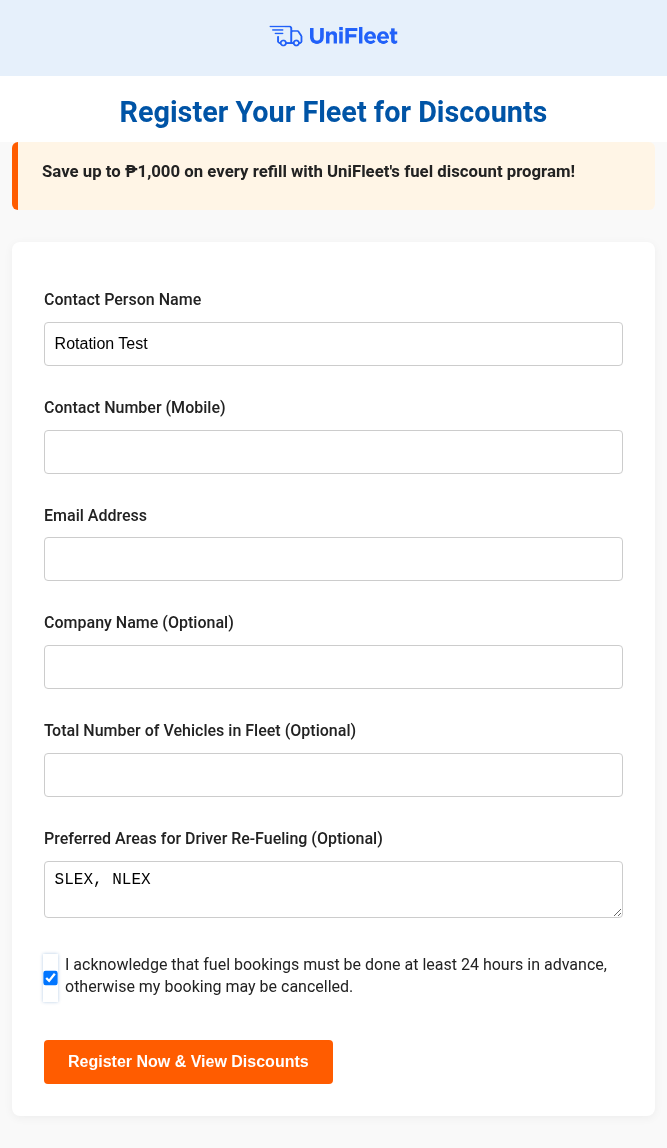
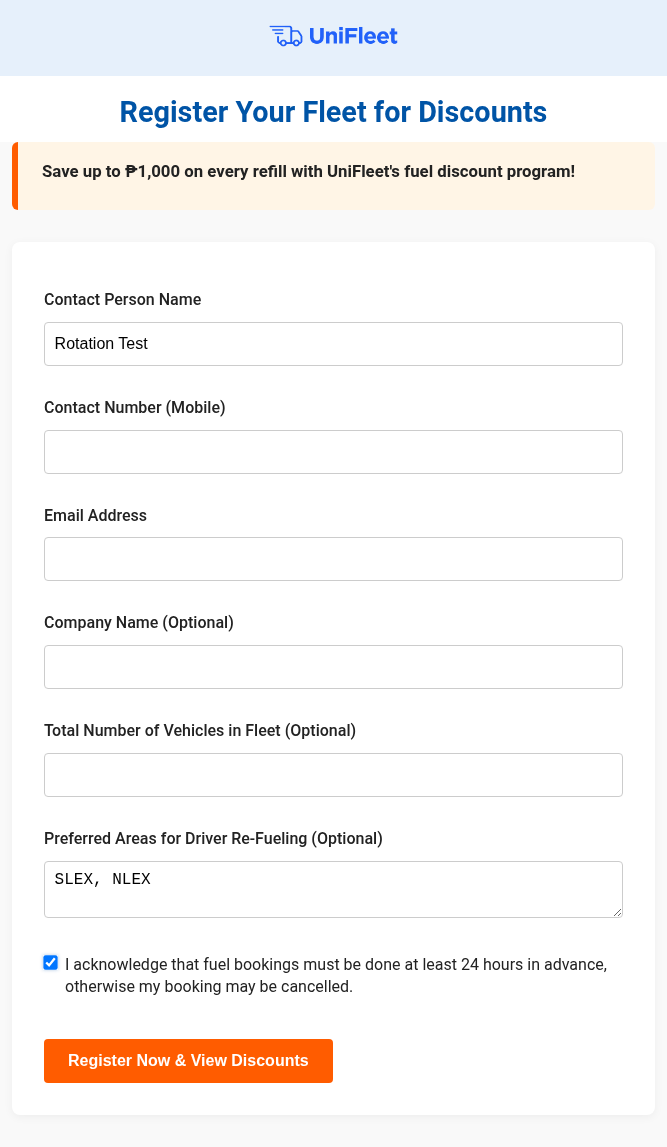
fix(register): address code-review findings on ARCH-register-mobile-friendly (all 5)
Checkbox tap-target rule stretched the acknowledgement checkbox into a
14x48px rectangle (no checkbox/radio exclusion on the generic min-height
selector) — excluded checkbox/radio, verified back to square 14x14,
label-click coverage still satisfies WCAG 2.5.5/2.5.8's Equivalent-target
exception. Also: persisted the make test-db run (347 passed) that was
executed but not evidenced, deduped the portrait/landscape tap-target
values via shared CSS custom properties, fixed a width/height comment
mismatch, and documented the WCAG rationale in code.

Claude-Session: https://claude.ai/code/session_01Btq9aF1etF7pQSWHgWkJon

diff --git a/static/styles.css b/static/styles.css
@@ -76,6 +76,14 @@ button:hover {
   display: none;
 }
 
+/* Shared tap-target values, referenced by both the portrait (.mobile-page)
+   and register-only landscape (.register-page) blocks below so they can't
+   drift out of sync with each other. */
+:root {
+  --tap-target-min: 44px;
+  --tap-target-font: 16px;
+}
+
 /* Mobile responsiveness (Brief-6, ARCH-brief-6). Scoped under .mobile-page
    so it never reaches register/admin templates that share the same base
    class names (.page-title, .centered-content, .section). */
@@ -90,16 +98,21 @@ button:hover {
     padding: 1.25rem 1rem;
   }
 
-  /* Tap targets: buttons, inputs, selects, textareas at least 44x44px */
-  .mobile-page input,
+  /* Tap targets: buttons, inputs, selects, textareas at least 44x44px.
+     Checkbox/radio excluded: native controls ignore CSS padding/min-height
+     for their own hit-box in Chromium, and forcing min-height here just
+     stretches them into a thin rectangle instead of a square (see the
+     .inline-checkbox rule below for how checkboxes get their tap target
+     instead — via the adjacent <label>, not their own box). */
+  .mobile-page input:not([type="checkbox"]):not([type="radio"]),
   .mobile-page select,
   .mobile-page textarea,
   .mobile-page button,
   .mobile-page .full-width-input,
   .mobile-page .btn {
-    min-height: 44px;
+    min-height: var(--tap-target-min);
     box-sizing: border-box;
-    font-size: 16px; /* prevents iOS auto-zoom-on-focus */
+    font-size: var(--tap-target-font); /* prevents iOS auto-zoom-on-focus */
   }
 
   .mobile-page .btn,
@@ -107,16 +120,22 @@ button:hover {
     display: inline-flex;
     align-items: center;
     justify-content: center;
-    min-height: 44px;
+    min-height: var(--tap-target-min);
   }
 
+  /* Checkbox: intentionally NOT resized (see exclusion above). The
+     adjacent <label for="acknowledge"> already toggles it and covers a
+     much larger area, satisfying WCAG 2.5.5/2.5.8's "Equivalent" target
+     exception (a same-action control that isn't small) — resizing the
+     checkbox itself isn't required and would visually distort it. */
+
   .mobile-page button {
-    min-width: 44px;
+    min-width: var(--tap-target-min);
   }
 
   /* <details>/<summary> toggles (map, fuel tables) are tap targets too */
   .mobile-page summary {
-    min-height: 44px;
+    min-height: var(--tap-target-min);
     display: flex;
     align-items: center;
   }
@@ -193,10 +212,13 @@ button:hover {
 }
 
 /* Register-only, landscape supplement: the max-width:480px block above
-   covers portrait phones but misses landscape (common landscape widths run
-   667-926px, past that breakpoint). Scoped to .register-page (not
-   .mobile-page) so book.html/booking_success.html, which rely solely on
-   the width breakpoint, are unaffected. */
+   covers portrait phones but misses landscape (common landscape phones
+   report a viewport *height* of roughly 320-430px, past the max-height
+   condition below would need to be — this block's own max-height:480px
+   catches that range). Scoped to .register-page (not .mobile-page) so
+   book.html/booking_success.html, which rely solely on the portrait
+   width breakpoint above, are unaffected. Shares --tap-target-min/-font
+   with the portrait block above so the two can't drift out of sync. */
 @media (max-height: 480px) and (orientation: landscape) {
   .register-page .centered-content {
     max-width: 100%;
@@ -204,15 +226,16 @@ button:hover {
     box-sizing: border-box;
   }
 
-  .register-page input,
+  /* Checkbox/radio excluded — same reason as the portrait block above. */
+  .register-page input:not([type="checkbox"]):not([type="radio"]),
   .register-page select,
   .register-page textarea,
   .register-page button,
   .register-page .btn,
   .register-page .button {
-    min-height: 44px;
+    min-height: var(--tap-target-min);
     box-sizing: border-box;
-    font-size: 16px; /* prevents iOS auto-zoom-on-focus */
+    font-size: var(--tap-target-font); /* prevents iOS auto-zoom-on-focus */
   }
 
   .register-page .btn,
@@ -223,6 +246,6 @@ button:hover {
   }
 
   .register-page button {
-    min-width: 44px;
+    min-width: var(--tap-target-min);
   }
 }

diff --git a/templates/register.html b/templates/register.html
@@ -63,6 +63,10 @@
       margin: 1rem 0 1.5rem;
     }
 
+    /* Stays this size on mobile too (excluded from styles.css's tap-target
+       min-height rules) — the adjacent label below already toggles this
+       checkbox and covers a much larger area, satisfying WCAG 2.5.5/2.5.8's
+       "Equivalent" target-size exception without visually distorting it. */
     .inline-checkbox input[type="checkbox"] {
       width: auto;            /* don't inherit the 100% form-input width */
       flex: 0 0 auto;

diff --git a/specs/reviews/CODE-REVIEW-PIPELINE-register-mobile-friendly.md b/specs/reviews/CODE-REVIEW-PIPELINE-register-mobile-friendly.md
@@ -1,0 +1,141 @@
+# Review Report
+
+## Metadata
+
+| Field | Value |
+|-------|-------|
+| **Review Mode** | Pipeline: ARCH-register-mobile-friendly |
+| **Target** | specs/architecture/ARCH-register-mobile-friendly.md |
+| **Date** | 2026-08-04 |
+| **Tech Stack** | Flask (Python 3.11), Jinja2 templates, plain CSS, no build pipeline / no JS framework |
+| **Checks Run** | task-completion, code-quality, accessibility, migration |
+| **Checks Skipped** | test-coverage (ui-mode task, verified manually per task spec), security/performance/error-handling/database-patterns/async-patterns/runtime-behavior/express-patterns/react-patterns/typescript-strictness (no backend logic, DB, JS/TS, or React changes in diff), documentation/config-dependencies (no README/API surface, no new deps or env vars) |
+| **Files Changed** | 3 (`templates/register.html`, `templates/register_success.html`, `static/styles.css`) |
+| **Lines Changed** | +44 / -4 |
+
+## Review Process
+
+- [x] Preflight checks passed
+- [x] Diff gathered (3 files, 48 lines, commit `35e953f`)
+- [x] Tech stack detected: Flask / Jinja2 / plain CSS
+- [x] Context read (CLAUDE.md, AGENTS.md, linked REQ-register-mobile-friendly.md)
+- [x] Triage proposed and developer confirmed
+- [x] 4 checks dispatched: task-completion, code-quality, accessibility, migration
+- [x] Results collected and deduplicated
+- [x] Report compiled
+- [x] Verdict determined
+- [x] Report saved to specs/reviews/
+
+## Verdict: ✅ PASS (post-fix)
+
+**Update 2026-08-04:** All 5 findings addressed. The checkbox tap-target selector now excludes `input[type="checkbox"]`/`input[type="radio"]` in both media blocks, fixing the stretched 14×48px rectangle — re-verified via Playwright at 14.3×14.3 (square, matches desktop), with the adjacent `<label>` still toggling it correctly. `make test-db` output (347 passed) is now persisted at `docs/qa/register-brief/t1-test-suite-run.txt` and referenced from the results JSON. The duplicated tap-target rule set between the portrait and landscape blocks now shares `--tap-target-min`/`--tap-target-font` CSS custom properties so the two can't drift independently. The landscape-breakpoint comment now correctly references height instead of width, and the WCAG "Equivalent target" rationale for the checkbox is now documented as a code comment in both `static/styles.css` and `register.html`. Full test suite re-run after fixes: 347 passed, no regressions.
+
+Original findings below are kept for the record.
+
+Solid, well-scoped diff — REQ traceability is complete (9/9), CSS scoping isolation between `register-page`/`mobile-page`/untouched pages is verified correct by three independent checks, and both implementation deviations from the ARCH plan (checkbox mechanism, new landscape breakpoint) were disclosed accurately and match what actually shipped. But one real functional bug survived T1's own verification: the acknowledgement checkbox renders as a stretched 14×48px rectangle instead of a square on any viewport that triggers the mobile CSS, because the generic tap-target selector list has no checkbox/radio exclusion. The Playwright evidence captured this exact measurement (`checkbox: {w:14.3, h:48.4}`) but it wasn't recognized as a visual defect at verification time. A second high-severity finding: `make test-db` was actually run (347 passed) but no evidence of that run was persisted, so the task's "12/12 evidenced" claim is currently unsubstantiated for item 12.
+
+### Finding Counts
+
+| Category | 🔴 | 🟠 | 🟡 | 💭 | ⚠ |
+|----------|-----|-----|-----|-----|-----|
+| task-completion | 0 | 1 | 0 | 0 | 0 |
+| code-quality | 0 | 1 | 1 | 1 | 0 |
+| accessibility | 0 | 0 | 0 | 1 | 1 |
+| migration | 0 | 0 | 0 | 0 | 0 |
+| **Total** | **0** | **2** | **1** | **2** | **1** |
+
+## task-completion
+
+### Findings Table
+
+| # | Severity | File | Line | Issue | Recommendation |
+|---|----------|------|------|-------|----------------|
+| 1 | 🟠 High | `specs/architecture/ARCH-register-mobile-friendly.md`, `docs/qa/register-brief/t1-verification-results.json` | — | Task status claims "12/12 verification checklist items evidenced," but checklist item 12 ("No test regressions — `make test-db`") has no corresponding evidence anywhere — not in the JSON, not as a screenshot, not in the commit. The other 11 items all have concrete DOM measurements or screenshots; this one is asserted only, even though the suite was actually run (347 passed) during implementation. | Capture the `make test-db` output (pass count) into `t1-verification-results.json` or a companion log before treating T1 as fully evidenced. |
+
+### REQ Traceability
+
+| REQ | Status | Notes |
+|-----|--------|-------|
+| R1 | ✅ Verified | viewport meta present both templates; `hasMeta:true`, `noHorizScroll:true` |
+| R2 | ✅ Verified | tap-target heights ≥44px on input/textarea/button |
+| R3 | ✅ Verified | `fontSize:"16px"` on all text-entry fields |
+| R4 | ✅ Verified (via disclosed deviation) | Mechanism changed from "padding" (ARCH A2) to "label-click coverage" — disclosed in ARCH's Implementation Deviations #1, diff matches disclosure exactly. See code-quality Finding #1 below for a real bug this same selector introduced. |
+| R5 | ✅ Verified | flash message contained, no overflow |
+| R6 | ✅ Verified | success CTA ≥44px in both orientations |
+| R7 | ✅ Verified | form state (text/textarea/checkbox) survives resize |
+| N1 | ✅ Verified | portrait + landscape screenshots both pages |
+| N2 | ⚠ Manual (pre-disclosed gap) | No WebKit/Samsung Internet evidence — consistent with REQ's own Open Question, not a new gap |
+| N3 | ✅ Verified (code-scoped) | All new CSS gated inside `@media` blocks; >480px rendering unaffected by construction |
+
+### Change Footprint & Scope Boundaries
+
+✅ Matches — only the 3 expected files changed. One scope-boundary line ("Do NOT add a new `@media` block") is technically bypassed by the new `.register-page`-scoped landscape block, but this is the same deviation disclosed accurately in the ARCH's Implementation Deviations #2, approved before implementation, and the diff matches that disclosure verbatim (isolated to `.register-page`, doesn't touch the shared `.mobile-page` block `book.html` relies on). Flagged for visibility, not counted as a defect.
+
+### Coverage Checklist
+- [x] `specs/requirements/REQ-register-mobile-friendly.md` — R1-R7/N1-N3 traced against implementation
+- [x] `specs/architecture/ARCH-register-mobile-friendly.md` — Change Footprint ✅, Scope Boundaries ✅ (with disclosed deviation noted), Decisions A1/A3/A4/A5 followed, A2 superseded by disclosed Deviation #1
+- [x] `templates/register.html` / `templates/register_success.html` / `static/styles.css` — reviewed in full
+- [x] Verification Checklist — 11/12 evidenced, item 12 → Finding #1
+
+## code-quality
+
+### Findings Table
+
+| # | Severity | File | Line | Issue | Recommendation |
+|---|----------|------|------|-------|----------------|
+| 1 | 🟠 High | `static/styles.css` | 94-103, 207-217 | The tap-target selector list (`.mobile-page input` / `.register-page input`, both blocks) applies `min-height:44px` + `box-sizing:border-box` to *all* `<input>` elements with no checkbox/radio exclusion. `register.html`'s checkbox (`#acknowledge`) has a local override that sets `width:auto` + `transform:scale(1.1)` but never resets height, so on any viewport that triggers the mobile CSS the checkbox is stretched to a 14×48px rectangle instead of a square. Confirmed by this task's own Playwright evidence: `tapTargets.checkbox: {w:14.3, h:48.4}` in `t1-verification-results.json`. This selector existed pre-diff (Brief-6) but register.html is the first `.mobile-page` page with a checkbox, so the bug is newly exposed here, not pre-existing. | Add a checkbox/radio exclusion to the tap-target selector list (e.g. `.mobile-page input:not([type="checkbox"]):not([type="radio"])`), or add an explicit `.mobile-page input[type="checkbox"] { min-height: unset; height: 1.2rem; width: 1.2rem; }` sized to match the existing `.inline-checkbox` treatment — in both the portrait and landscape blocks. |
+| 2 | 🟡 Medium | `static/styles.css` | 94-115 vs 207-225 | The new landscape media query re-declares nearly the entire tap-target rule set from the portrait block — same 6-selector list, same three properties, same `.btn/.button` flex rule, same `button{min-width:44px}`. Since register templates always carry both `.mobile-page` and `.register-page`, this is pure redundancy (not a functional bug) that will drift out of sync if one block is edited without the other — e.g. Finding #1's checkbox fix needs applying in two places as currently structured. | Factor the shared declarations into a single rule keyed on a combined `.mobile-page, .register-page` selector list, or otherwise consolidate so the two breakpoints can't drift. |
+| 3 | 💭 Low | `static/styles.css` | 195-198 | Comment justifying the landscape breakpoint cites "common landscape widths run 667-926px" to explain a `max-height:480px` condition — width figures used to justify a height-keyed query reads as a mismatched unit reference. | Reword to reference height, e.g. "landscape phones commonly report height 320-430px, past the max-width:480px portrait breakpoint." |
+
+**Observation (not a finding):** `.mobile-page .button` is added to the shared `.mobile-page` block but its only current consumer is the single anchor in `register_success.html`; `book.html`/`booking_success.html` have no `.button` elements today. No live collision, but worth confirming this is intentional as a general utility class.
+
+### Coverage Checklist
+- [x] `static/styles.css` — selector naming/scoping ✅, specificity conflicts between blocks ✅ (no real conflict, identical values), duplication ⚠ → Finding #2, checkbox/input-type coverage ⚠ → Finding #1, magic numbers mostly documented → Finding #3
+- [x] `templates/register.html` — viewport meta ✅, body class scoping ✅, local `<style>` interaction with new media queries ⚠ → Finding #1
+- [x] `templates/register_success.html` — viewport meta ✅, body class scoping ✅, `.button` anchor is the intended target of the new rule ✅
+
+## accessibility
+
+### Findings Table
+
+| # | Severity | File | Line | Issue | WCAG | Recommendation |
+|---|----------|------|------|-------|------|----------------|
+| 1 | 💭 Low | `templates/register.html` | 66-71 | The WCAG "Equivalent target" rationale for not resizing the checkbox lives only in this session's discussion, not as a code comment near the rule | 2.5.5/2.5.8 | Add a short comment near `.inline-checkbox input[type="checkbox"]` (or the new tap-target rules) noting the adjacent label satisfies the Equivalent-target exception, so a future edit doesn't "fix" this by forcing a resize |
+| 2 | ⚠ Manual | `templates/register.html` | 155-156 | Native `required` validation bubble anchors to the small checkbox, not the large label — a screen-magnifier user panned to the label could miss the prompt when the box is left unchecked | 3.3.1 (related) | Manually verify with a zoomed viewport / magnifier that the validation prompt is discoverable |
+
+**Positive notes:** the checkbox-tap-target design (relying on the adjacent `<label>` rather than resizing the checkbox) is explicitly sanctioned by WCAG 2.5.5/2.5.8's "Equivalent" exception — a control performing the same action, not itself small, satisfies the criterion. Viewport meta correctly omits zoom-blocking attributes. No color/contrast changes. No JS added, so keyboard operability is unaffected. The new landscape media query mirrors the portrait block's accessibility treatment exactly, no regression between breakpoints (though it does inherit code-quality Finding #1's checkbox-stretch bug identically in both blocks).
+
+### Coverage Checklist
+- [x] `templates/register.html` — viewport/zoom ✅, checkbox tap-target rationale ✅ (WCAG exception applies) → Findings #1, #2, alt text ✅, keyboard operability ✅
+- [x] `templates/register_success.html` — viewport/zoom ✅, alt text ✅, no interactive regressions
+- [x] `static/styles.css` — landscape/portrait parity ✅, no contrast changes ✅, scoping correct ✅
+
+## migration
+
+**Result:** No findings. Confirmed purely additive (only a stale comment/selector-list header replaced, no existing rule dropped), no route/API/DB/env changes, and CSS scoping isolation verified by direct read of all three potentially-affected templates: `admin_login.html` has no `.mobile-page`/`.register-page` class at all; `book.html`/`booking_success.html` retain `.mobile-page` only, no `.register-page` — the new landscape block cannot reach them.
+
+### Coverage Checklist
+- [x] `templates/register.html` / `templates/register_success.html` — no route/DB/breaking changes
+- [x] `static/styles.css` — no unscoped-selector leak, additive-only diff confirmed
+- [x] `admin_login.html`, `book.html`, `booking_success.html` — confirmed unaffected by direct read
+
+## Manual Checks Required
+
+- [ ] Verify Safari iOS + Samsung Internet manually (sandbox lacks WebKit) — pre-disclosed in REQ Open Questions
+- [ ] Verify with a screen magnifier / zoomed viewport that the checkbox's native validation bubble is discoverable when panned to the label (accessibility Finding #2)
+
+## Prioritized Action Items
+
+### Must Fix (🔴 Critical / 🟠 High)
+- Fix the checkbox tap-target selector so it doesn't stretch the checkbox into a 14×48px rectangle — add a `:not([type=checkbox]):not([type=radio])` exclusion or an explicit checkbox override, in both media blocks (code-quality Finding #1)
+- Persist `make test-db` evidence (347 passed) into the QA evidence directory so item 12 of the verification checklist is actually backed, not just asserted (task-completion Finding #1)
+
+### Should Address (🟡 Medium)
+- Consolidate the duplicated tap-target rule set between `.mobile-page`/`.register-page` portrait and landscape blocks so they can't drift out of sync (code-quality Finding #2)
+
+### Nice to Have (💭 Low)
+- Fix the width/height unit mismatch in the landscape-breakpoint comment (code-quality Finding #3)
+- Add a code comment near the checkbox rule documenting the WCAG Equivalent-target rationale (accessibility Finding #1)
+
+---
+*Generated by Review — 2026-08-04*

diff --git a/specs/architecture/ARCH-register-mobile-friendly.md b/specs/architecture/ARCH-register-mobile-friendly.md
@@ -150,7 +150,7 @@ None.
 
 ## Task T1: Mobile-responsive register form and confirmation page
 
-> **Status:** done — 12/12 verification checklist items evidenced (screenshots + Playwright DOM measurements at `docs/qa/register-brief/`). Two implementation deviations from A2 discovered and resolved (see below), both discussed and approved before proceeding.
+> **Status:** done — 12/12 verification checklist items evidenced (screenshots + Playwright DOM measurements at `docs/qa/register-brief/`, including `t1-test-suite-run.txt` for item 12). Two implementation deviations from A2 discovered and resolved (see below), both discussed and approved before proceeding. Code review (`specs/reviews/CODE-REVIEW-PIPELINE-register-mobile-friendly.md`) found 2 must-fix + 3 lower-severity findings, all fixed — see "Post-Review Fixes" below.
 > **Verification:** ui
 > **Effort:** s
 > **Priority:** high
@@ -186,6 +186,18 @@ None — no JS, no logic branches introduced; this is markup + CSS only, so no u
 
 1. **Checkbox tap target (deviates from A2 as originally worded):** the planned "grow via padding" approach doesn't work — Chromium ignores CSS padding for native `<input type="checkbox">` width (confirmed via computed-style/bounding-box measurement: padding had zero effect on width, only `min-height` from the general tap-target rule affected height). Resolved: dropped the padding rule; R4 is satisfied instead by the existing `<label for="acknowledge">` click target, which already covers a ~300×48px tappable region beside the small checkbox — verified via `checkboxLabelClickToggles: true`. No visual change to the checkbox itself, consistent with A2's spirit even though the mechanism differs from what A2 specified.
 2. **Landscape breakpoint gap (new finding, scoped fix added):** `@media(max-width:480px)` doesn't fire on most phones in landscape (common landscape widths run 667–926px, past the breakpoint) — confirmed via measurement (CTA button height reverted to un-fixed 43px in a 667×375 viewport before the fix). This gap also exists in the already-shipped `book.html`/`booking_success.html` from Brief-6, undetected by that review; out of scope to fix there now. For this task, added a new `.register-page`-scoped `@media(max-height:480px) and (orientation:landscape)` block in `static/styles.css` (not touching the shared `.mobile-page` block `book.html` relies on) and a new `register-page` body class on both templates. This is a footprint addition beyond the original ARCH plan — flagged and approved by the developer before implementing.
+
+### Post-Review Fixes (2026-08-04)
+
+Code review found 2 must-fix + 3 lower-severity findings; all addressed:
+
+1. **🟠 Checkbox tap-target selector had no checkbox/radio exclusion** — the generic `.mobile-page input`/`.register-page input` tap-target rule applied `min-height:44px` to the checkbox too, but the existing local override in `register.html` never reset height, stretching the checkbox to a 14×48px rectangle instead of a square (confirmed by the task's own pre-fix evidence: `tapTargets.checkbox: {w:14.3, h:48.4}`). Fixed by adding `:not([type="checkbox"]):not([type="radio"])` to both media blocks' input selector. Re-verified: checkbox now measures 14.3×14.3 (square, matches desktop), label-click toggle still works. Evidence: `t1-11-checkbox-fixed-375.png`, updated `t1-verification-results.json`.
+2. **🟠 Checklist item 12 (test suite) asserted, not evidenced** — `make test-db` was run during implementation (347 passed) but no output was persisted. Fixed by saving the run to `docs/qa/register-brief/t1-test-suite-run.txt` and referencing it in `t1-verification-results.json`.
+3. **🟡 Duplicated tap-target rule set** between the portrait `.mobile-page` block and the landscape `.register-page` block risked drifting out of sync. Fixed by introducing shared `--tap-target-min`/`--tap-target-font` CSS custom properties, referenced via `var()` in both blocks.
+4. **💭 Landscape-breakpoint comment cited width figures to justify a height-keyed media condition.** Reworded to reference height.
+5. **💭 WCAG "Equivalent target" rationale for the checkbox lived only in commit/review discussion, not as code.** Added comments both in `static/styles.css` (next to the exclusion) and `register.html` (next to the `.inline-checkbox input[type="checkbox"]` rule).
+
+Full test suite re-run after fixes: 347 passed, no regressions.
 
 ### Implementation Notes
 
